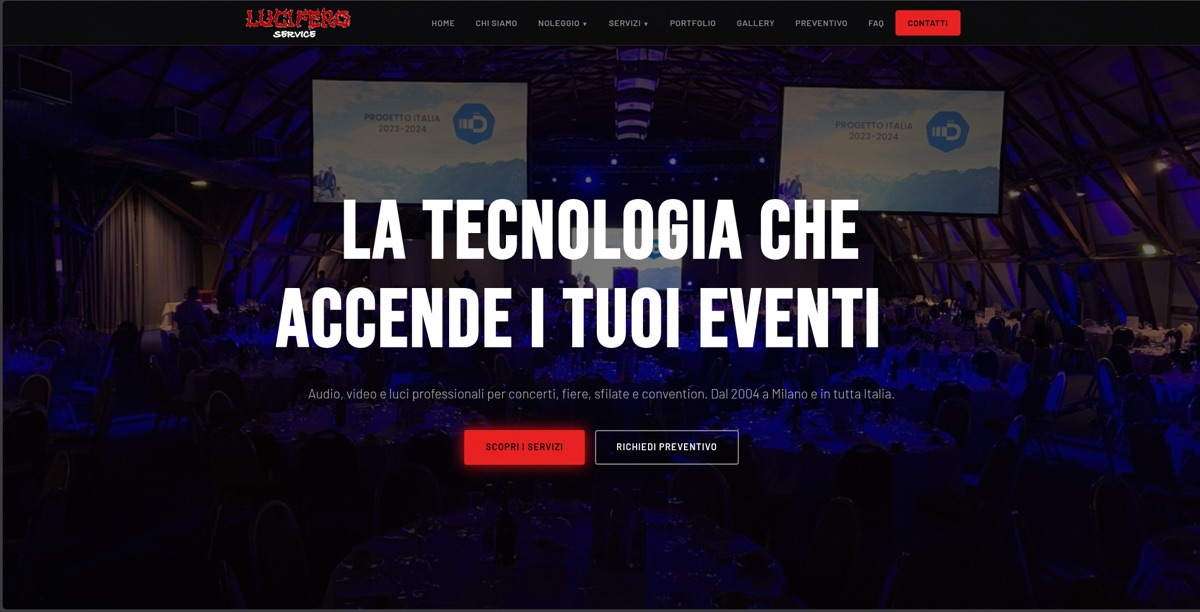
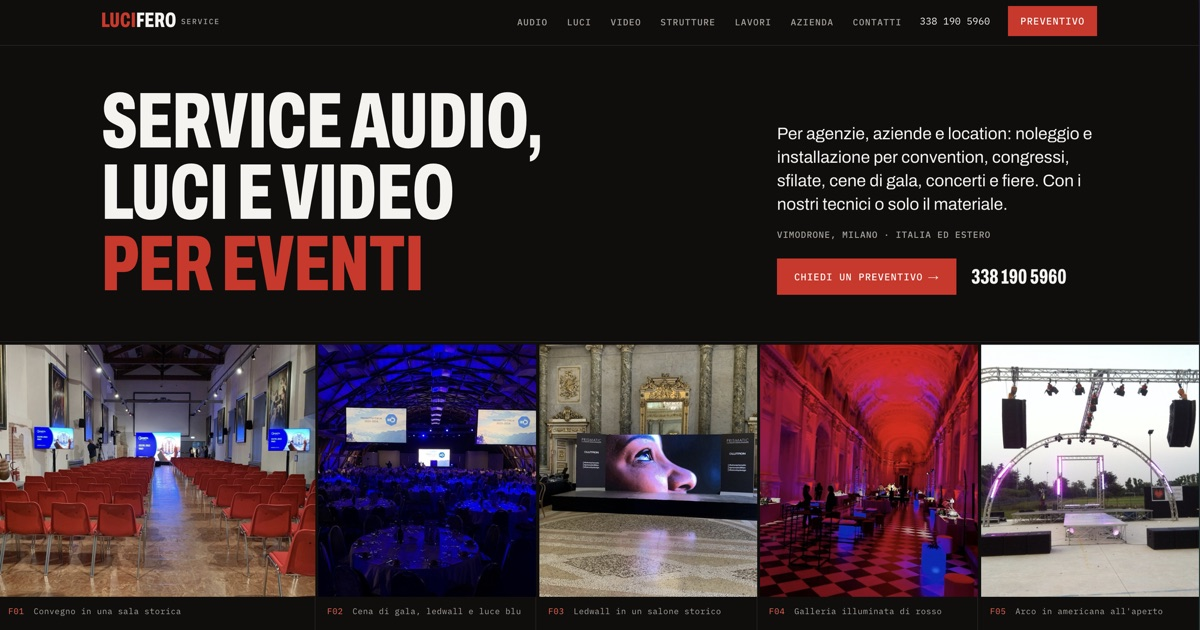
Update Lucifero project cover

diff --git a/projects/lucifero.html b/projects/lucifero.html
@@ -62,7 +62,7 @@
         </header>
 
         <figure class="project-cover reveal-media">
-          <img src="../assets/images/lucifero-cover.webp" alt="Lucifero Service - copertina progetto" width="1200" height="612">
+          <img src="../assets/images/lucifero-cover.webp" alt="Lucifero Service - copertina progetto" width="1200" height="630">
         </figure>
       </div>
     </section>
